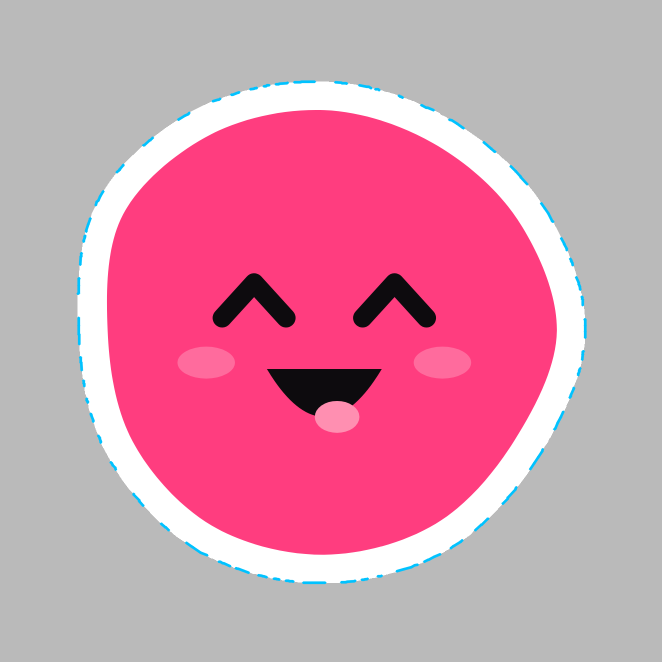
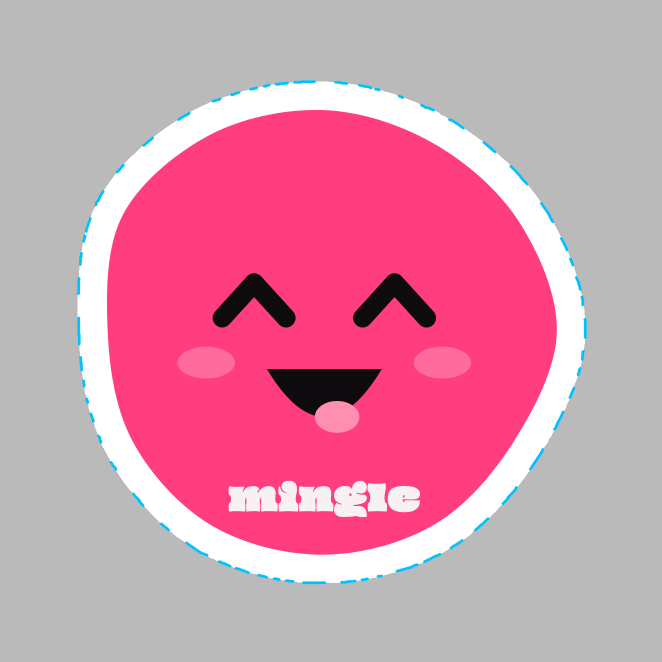
Sticker Dot: scritta mingle piccola sotto la bocca
Claude-Session: https://claude.ai/code/session_01XDMhier1WEJzKbpSLEJqDr

Changed region(s): [[0.3323, 0.7251, 0.6344, 0.7855]]

diff --git a/docs/brand/sticker/genera_sticker.py b/docs/brand/sticker/genera_sticker.py
@@ -5,7 +5,7 @@ Tre sticker:
   (il taglio segue il contorno della scritta, con un bordo bianco)
 - sticker-qr:      60 × 80 mm, angoli arrotondati, Dot sopra un QR code
                    verso instagram.com/mingletheapp
-- sticker-dot:     solo Dot che ride, sagomato
+- sticker-dot:     Dot che ride con "mingle" piccolo sotto la bocca, sagomato
 
 Ogni PDF contiene la grafica e, sopra, la linea di taglio come tinta piatta
 "CutContour" in sovrastampa: è il formato che chiedono le tipografie per gli
@@ -52,6 +52,14 @@ def logo_laughing(variant):
     s = open(os.path.join(DOT, f'logo-mingle-per-fondo-{variant}.svg')).read()
     return re.sub(r'(<g id="Faccia" transform="[^"]+">).*?(</g></g></svg>)',
                   lambda m: m.group(1) + LAUGH + '</g></g></svg>', s, flags=re.S)
+
+
+def wordmark(fill):
+    """Solo la scritta "mingle" (senza Dot), in un <svg> ritagliato sulle lettere."""
+    s = open(os.path.join(DOT, 'logo-mingle-per-fondo-scuro.svg')).read()
+    g = re.search(r'<g id="Scritta"[^>]*>(.*?)</g>', s, re.S).group(1)
+    # ingombro delle lettere nel vettoriale del logo (misurato con getBBox)
+    return 8, -876, 5544, 1052, f'<g fill="{fill}">{g}</g>'
 
 
 def qr_svg():
@@ -188,10 +196,12 @@ def main():
         f'<div class="dot"><svg viewBox="0 0 200 200" width="100%" height="100%"><path d="{blob()}" fill="{MAGENTA}"/>{LAUGH}</svg></div>'
         '<div class="handle">@mingletheapp</div><div class="sub">SEGUICI SU INSTAGRAM</div>',
          lambda m: rounded_rect(B, B, 60, 80, 6))
-    # 3 · solo Dot, sagomato, bordo bianco di 2,5 mm
+    # 3 · solo Dot con la scritta piccola, sagomato, bordo bianco di 2,5 mm
+    wx, wy, ww, wh, wg = wordmark(PAPER)
     make('sticker-dot', 56, 56, '#FFFFFF',
          '.dot{position:absolute;left:8mm;top:8mm;width:40mm;height:40mm}',
-         f'<div class="dot"><svg viewBox="28 26 148 148" width="100%" height="100%"><path d="{blob()}" fill="{MAGENTA}"/>{LAUGH}</svg></div>',
+         f'<div class="dot"><svg viewBox="28 26 148 148" width="100%" height="100%"><path d="{blob()}" fill="{MAGENTA}"/>{LAUGH}'
+         f'<svg x="{100 - 30}" y="147" width="60" height="11.4" viewBox="{wx} {wy} {ww} {wh}">{wg}</svg></svg></div>',
          lambda m: contour_from_mask(m, 2.5))
     os.remove(os.path.join(HERE, '.render.js'))
 
